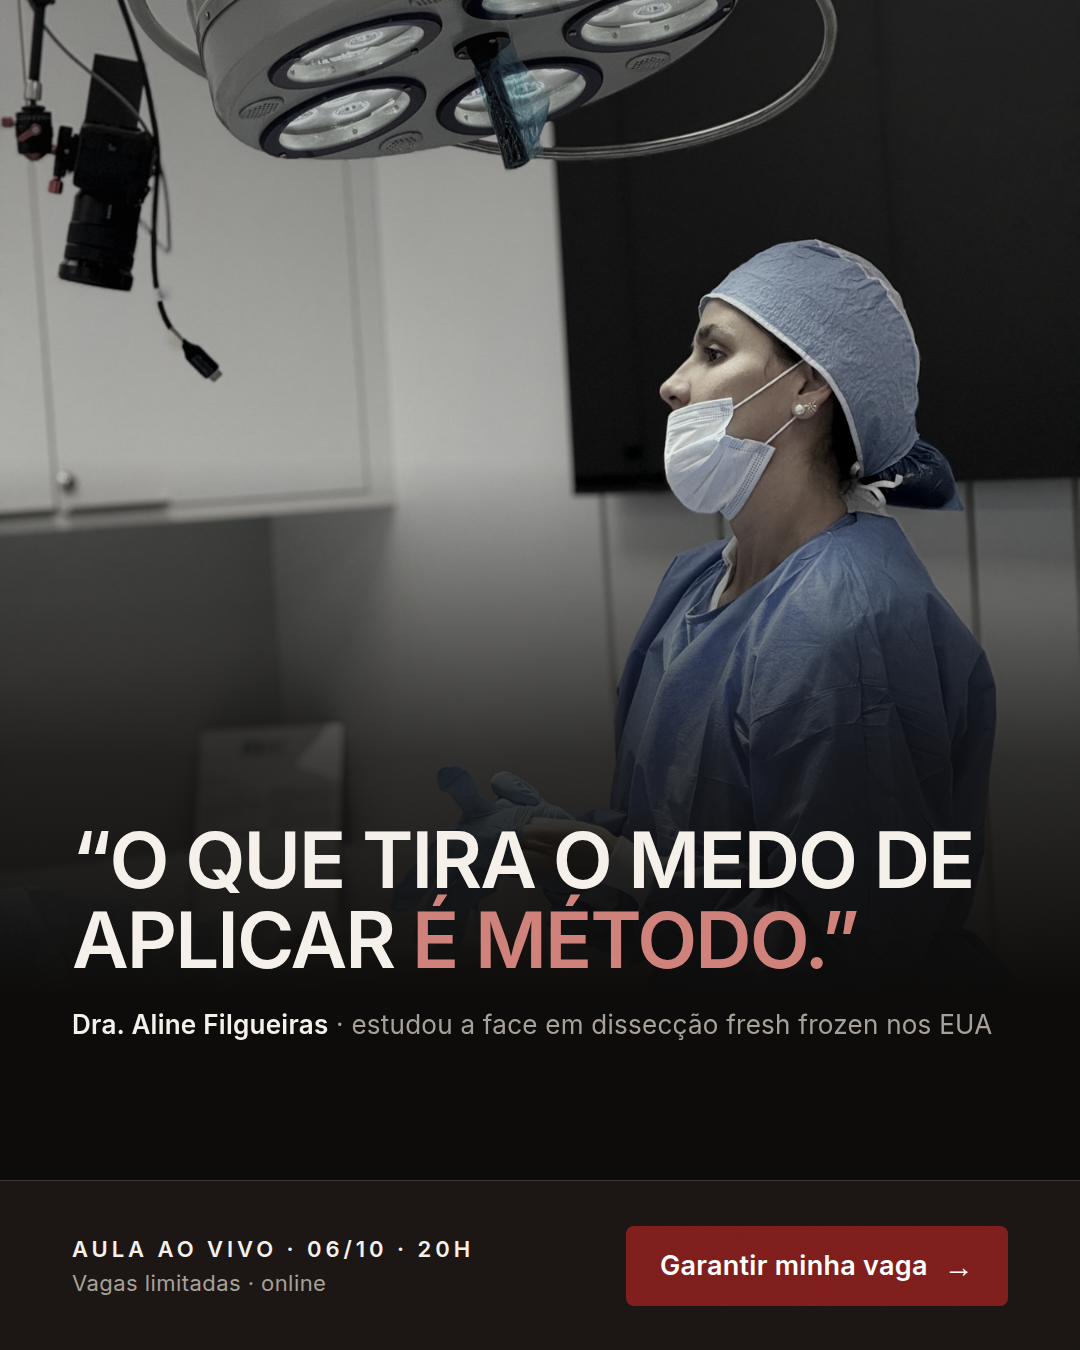
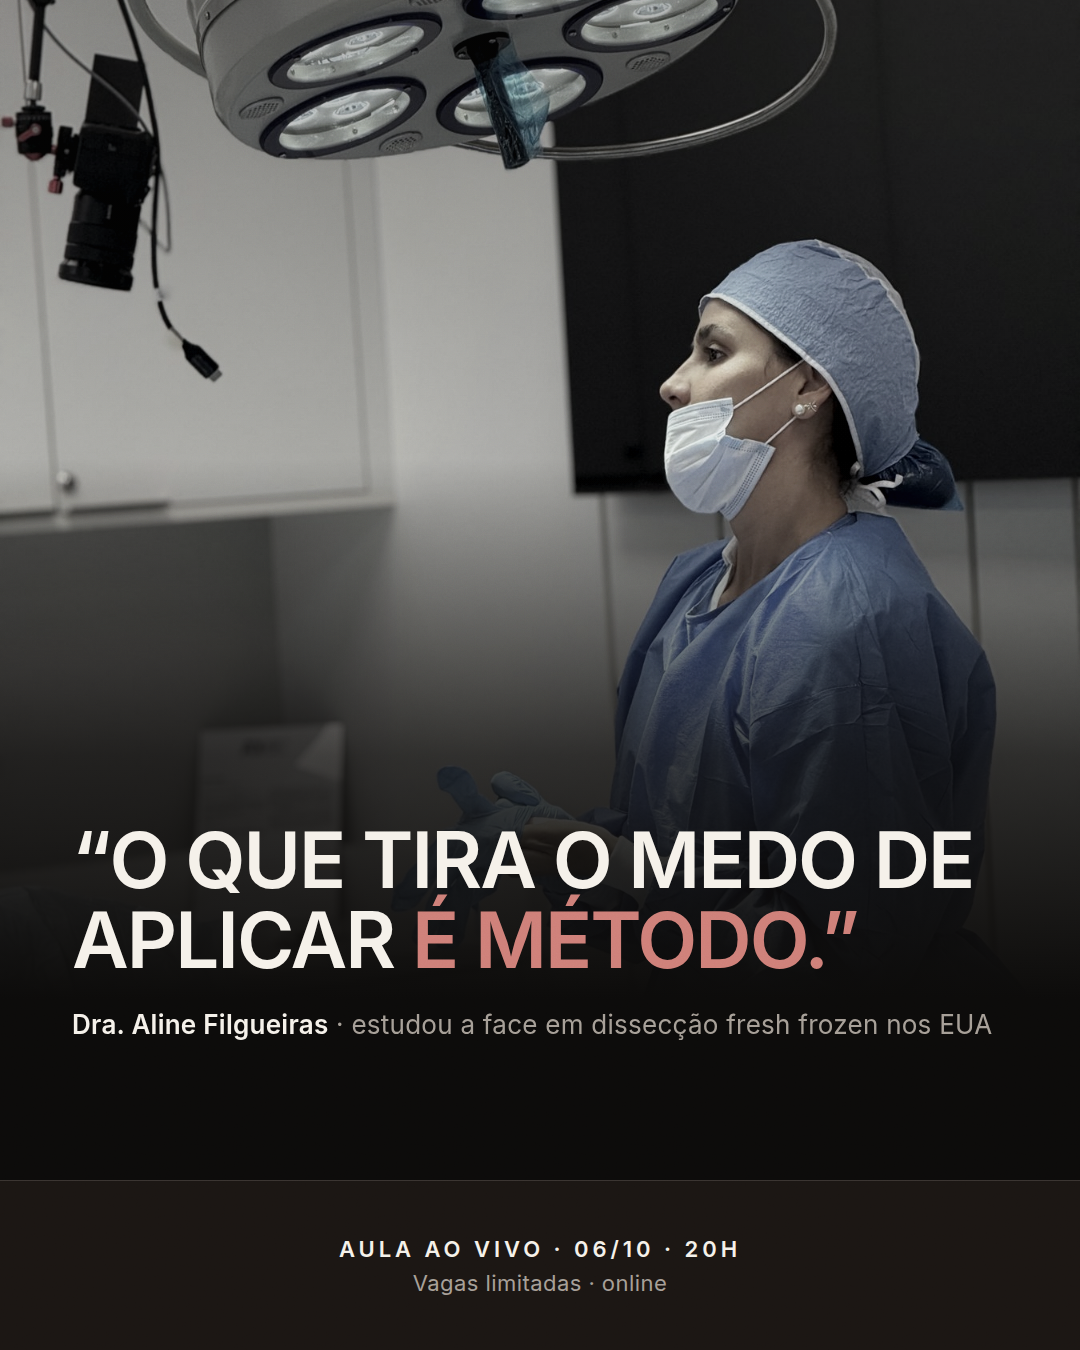
Criativo 08: barra sem botão desenhado
O anúncio já mostra o botão da plataforma; a barra fica só com a aula
(data, vagas limitadas, online), centralizada.

Claude-Session: https://claude.ai/code/session_01WPUMeavyQNj8nGDqq9EBnH

Changed region(s): [[0.2444, 0.9022, 0.9472, 0.9644], [0.0611, 0.9022, 0.2444, 0.9644]]

diff --git a/docs/criativos/criativos.html b/docs/criativos/criativos.html
@@ -179,7 +179,8 @@
   .story.t5 .aviso { top: 1404px; width: 936px; }
   /* ---------- t6 · citação sóbria (08) ----------
      Uma foto em tela cheia, a frase como citação da Aline, uma linha de
-     autoridade e a barra de baixo com a aula e o botão. Pouca informação. */
+     autoridade e a barra de baixo só com a aula: sem botão desenhado, porque o
+     anúncio já mostra o botão da plataforma. Pouca informação. */
   .t6 .foto { position: absolute; inset: 0; background: url("fotos/lab-luvas.jpg") 64% 16% / cover; filter: saturate(.45) contrast(1.06) brightness(.92); }
   .t6 .veu { position: absolute; inset: 0; background: linear-gradient(180deg, rgba(12,11,10,.25) 0%, rgba(12,11,10,0) 34%, rgba(12,11,10,.75) 56%, var(--bg) 74%); }
   .t6 .texto { position: absolute; left: 72px; right: 72px; top: 820px; }
@@ -187,10 +188,9 @@
   .t6 h1 em { font-style: normal; color: var(--wine-ink); white-space: nowrap; }
   .t6 .autor { margin-top: 30px; font-size: 26px; color: var(--fg-soft); letter-spacing: .01em; }
   .t6 .autor b { color: var(--fg); font-weight: 600; }
-  .t6 .barra { position: absolute; left: 0; right: 0; bottom: 0; height: 170px; background: var(--bg-3); border-top: 1px solid var(--line); display: flex; align-items: center; justify-content: space-between; padding: 0 72px; }
+  .t6 .barra { position: absolute; left: 0; right: 0; bottom: 0; height: 170px; background: var(--bg-3); border-top: 1px solid var(--line); display: flex; align-items: center; justify-content: center; padding: 0 72px; text-align: center; }
   .t6 .barra .aula { font-size: 22px; font-weight: 600; letter-spacing: .18em; text-transform: uppercase; color: var(--fg); }
   .t6 .barra .aula small { display: block; margin-top: 8px; font-size: 22px; font-weight: 400; letter-spacing: .02em; text-transform: none; color: var(--fg-soft); }
-  .t6 .barra .cta { font-size: 27px; padding: 22px 34px; border-radius: 8px; }
 
   .story.t6 .foto { background-position: 66% 18%; }
   .story.t6 .veu { background: linear-gradient(180deg, rgba(12,11,10,.55) 0%, rgba(12,11,10,0) 22%, rgba(12,11,10,.7) 46%, var(--bg) 62%); }
@@ -355,7 +355,6 @@
   </div>
   <div class="barra">
     <span class="aula">Aula ao vivo · 06/10 · 20h<small>Vagas limitadas · online</small></span>
-    <span class="cta">Garantir minha vaga <span class="seta">→</span></span>
   </div>
 </section>
 
